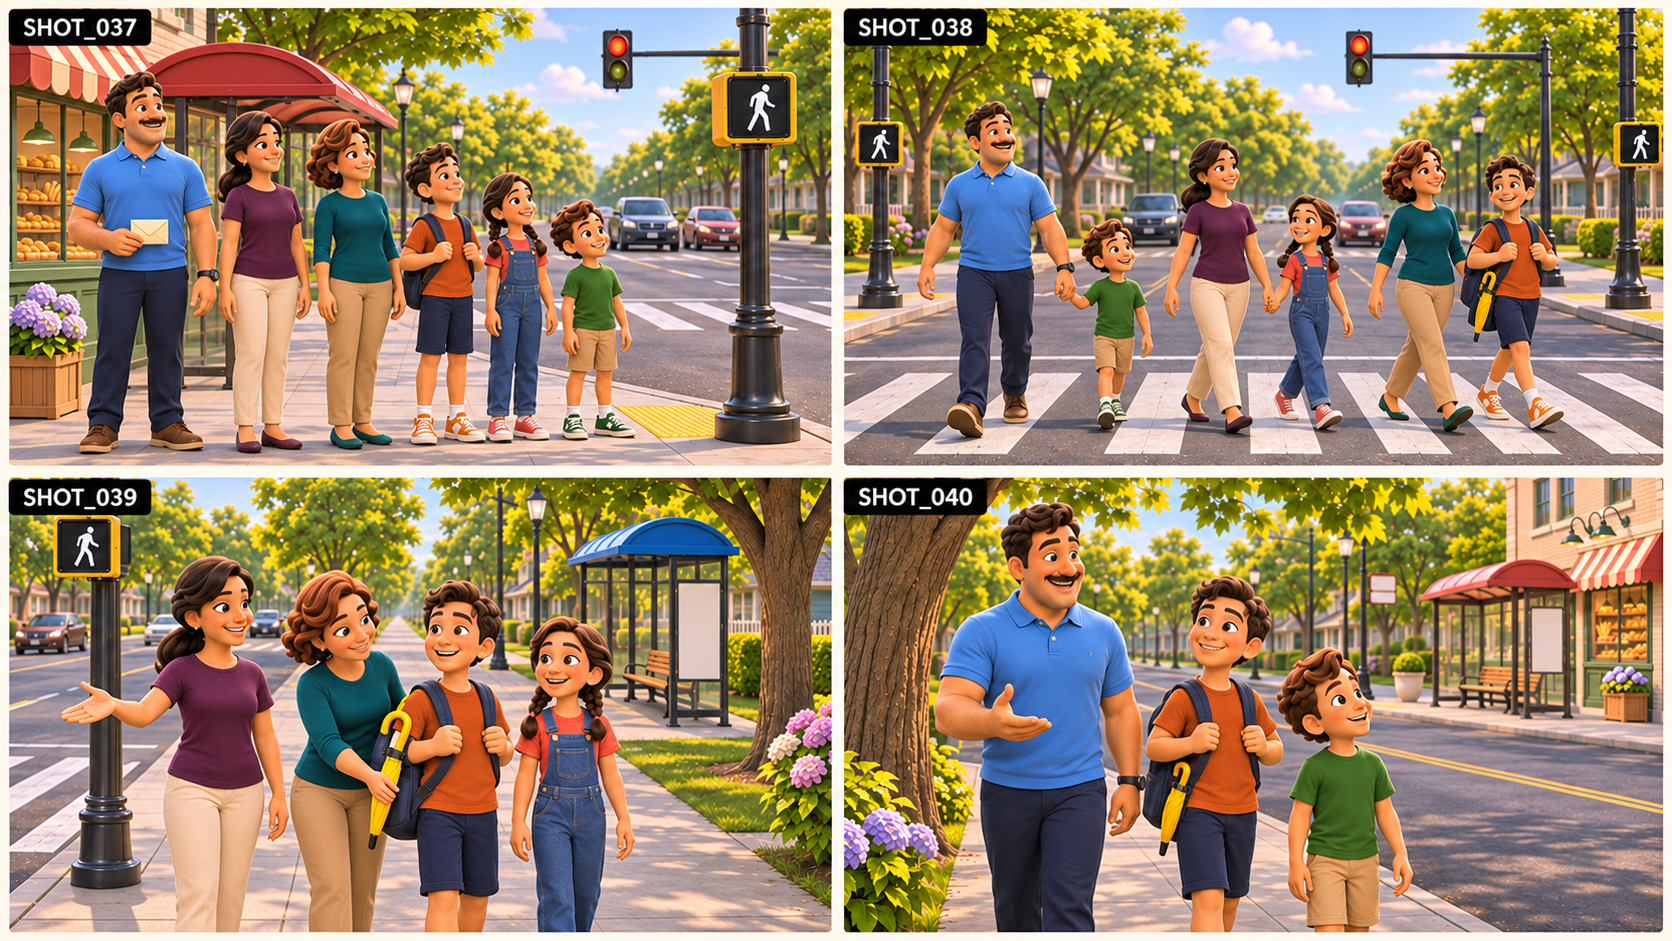
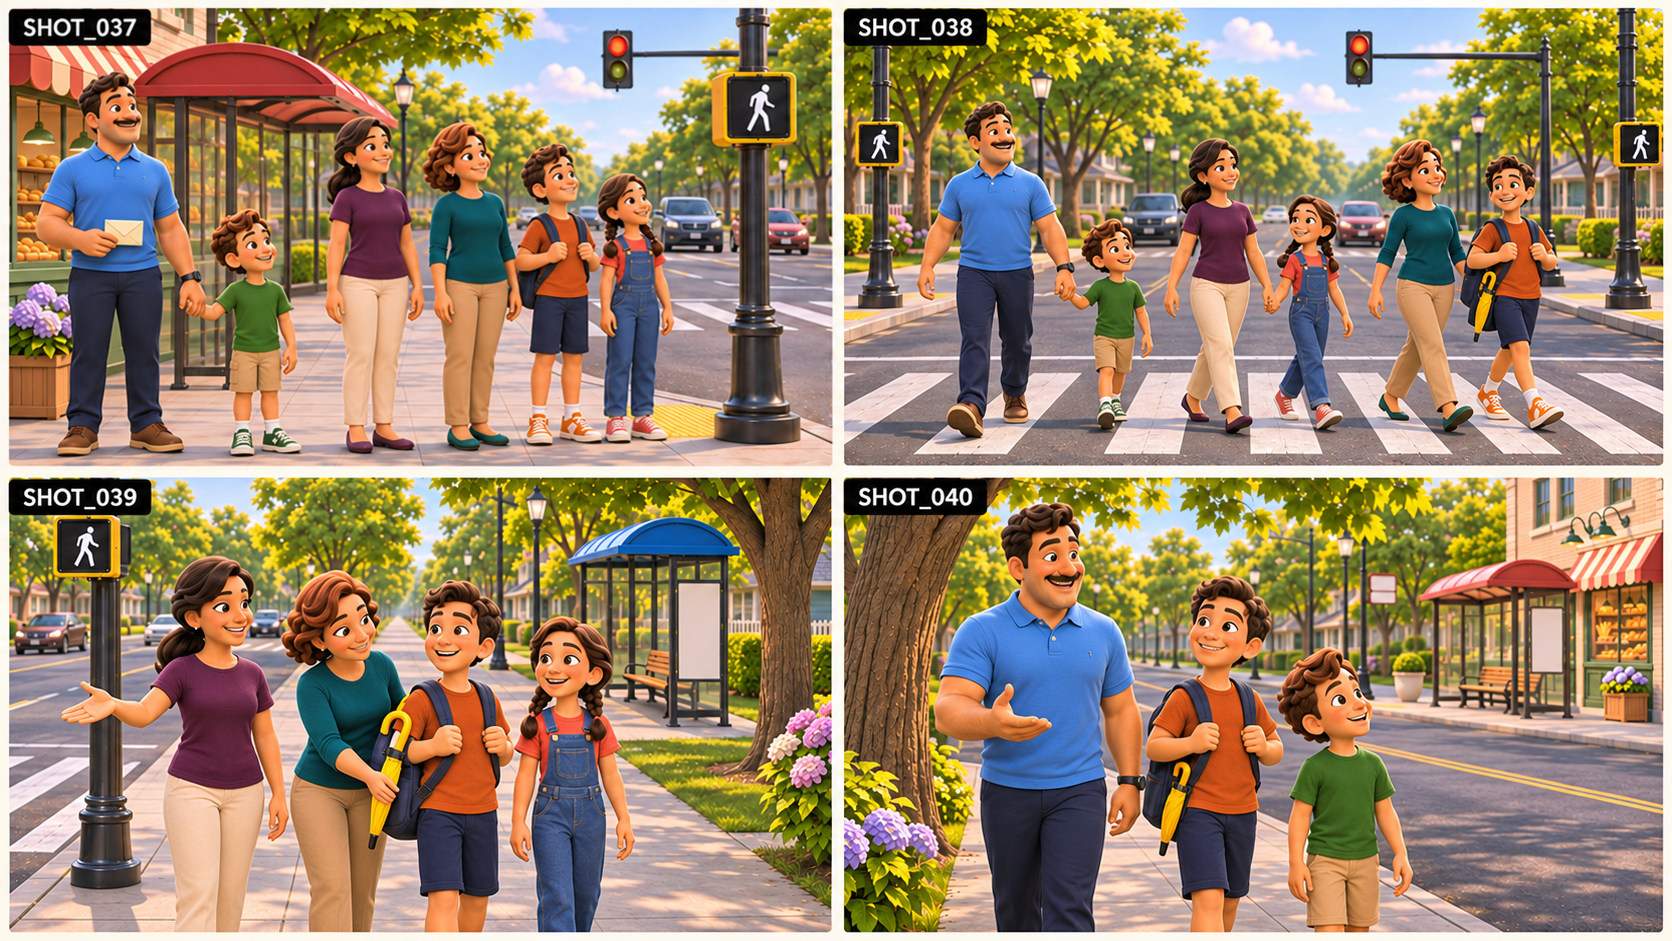
Repair Episode 07 storyboard 10: curbside handhold

diff --git a/docs/STORYBOARD_REPAIR_LOG.md b/docs/STORYBOARD_REPAIR_LOG.md
@@ -32,7 +32,8 @@ The active request is to fix the selected storyboard PNGs themselves. Video-prom
 | 04 / BOARD_19 | The receipt goes into the blue folder in 075. The folded bill edges stay inside Dan’s wallet and the invented denomination is gone. | [Selected sheet](../Episode_04/assets/storyboards/BOARD_19.png) · [Correction record](../artwork_qa/records/ep04-board19-keep-change-in-wallet.json) |
 | 05 / BOARD_16 | Restored capped water bottles and one partly eaten sandwich portion per visible diner across 061–064. Dan’s plate stays on the blanket. | [Selected sheet](../Episode_05/assets/storyboards/BOARD_16.png) · [Correction record](../artwork_qa/records/ep05-board16-picnic-bottles-and-portions.json) |
 | 06 / BOARD_05 | Restored the three menu sections and the $12, $14 and $8 choices. The left-side family grouping in 017 is correct; empty or misplaced chairs still need reframing. | [Selected sheet](../Episode_06/assets/storyboards/BOARD_05.png) · [Correction record](../artwork_qa/records/ep06-board05-restaurant-menu-and-chairs.json) |
+| 07 / BOARD_10 | Dan holds Max’s hand before the family steps off the bakery curb. The later crossing and library-side panels retain their published pixels. | [Selected sheet](../Episode_07/assets/storyboards/BOARD_10.png) · [Correction record](../artwork_qa/records/ep07-board10-curbside-handhold.json) |
 
-Current QA inventory: **271 shots with major visual defects; 529 awaiting human review**. Selected repairs remove only the visually verified discrepancies recorded above. Creator acceptance and individual motion-frame approval remain pending. Other storyboard defects have not been declared fixed.
+Current QA inventory: **270 shots with major visual defects; 530 awaiting human review**. Selected repairs remove only the visually verified discrepancies recorded above. Creator acceptance and individual motion-frame approval remain pending. Other storyboard defects have not been declared fixed.
 
 Each selected edit preserves the prior image through its parent Git commit, retains the returned ImageGen source, updates all four panel evidence hashes and records what was visually confirmed. The Episode 01 printed-label audit is refreshed against the new pixels. Corrections are committed and pushed as checkpoints before requesting the next image.

diff --git a/CURRENT_PRODUCTION_STATUS.md b/CURRENT_PRODUCTION_STATUS.md
@@ -4,7 +4,7 @@
 
 The 800 clips have 3,228 dialogue turns across ten 20-minute episodes. Each clip has four or five turns. The provisional speaker windows start at 0.25 seconds and allow the final action or reaction to carry into the cut. Each episode’s screenplay, video prompts and subtitles use the same dialogue. The [episode index](README.md#episodes) links directly to the prompts and each episode’s shot findings.
 
-The [image repair log](docs/STORYBOARD_REPAIR_LOG.md) identifies the selected replacement sheets. Current QA records list 271 major visual discrepancies and 529 shots awaiting human review. [Individual findings](docs/qa/) name the correction and the image hash for each panel. Use the [November 19 audit](docs/AUDIT_EP01_EP10.md) for the earlier review.
+The [image repair log](docs/STORYBOARD_REPAIR_LOG.md) identifies the selected replacement sheets. Current QA records list 270 major visual discrepancies and 530 shots awaiting human review. [Individual findings](docs/qa/) name the correction and the image hash for each panel. Use the [November 19 audit](docs/AUDIT_EP01_EP10.md) for the earlier review.
 
 ## Audit branch validation — 2026-11-19
 
